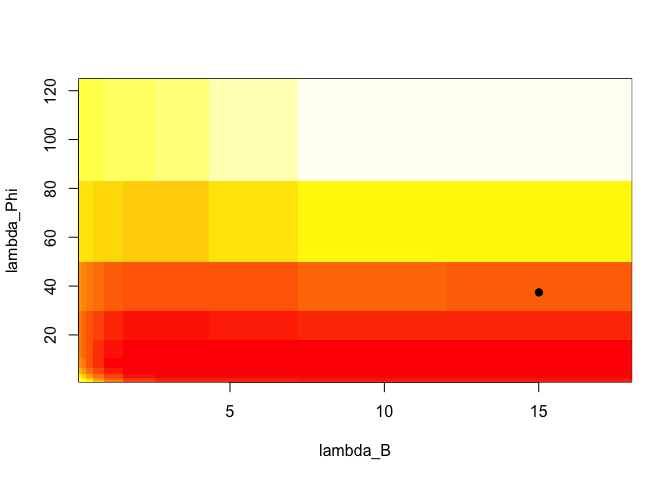
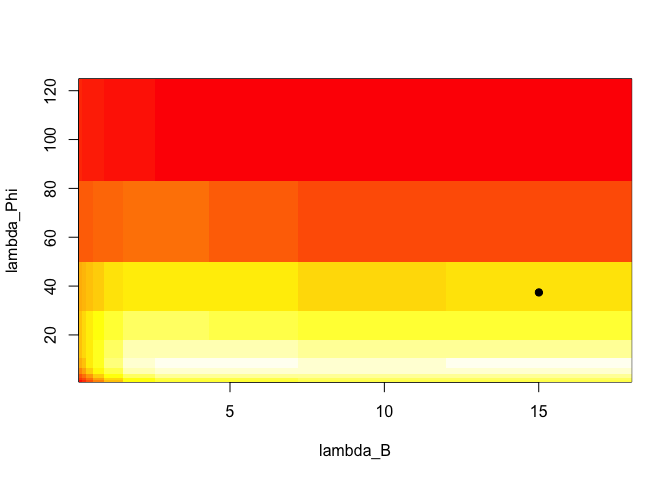
explaining image_cv colour in readme

diff --git a/README.md b/README.md
@@ -39,13 +39,6 @@ environment and then, using a little utility function, plotting it.
 ``` r
 library(bigtime)
 suppressMessages(library(tidyverse)) # Will be used for nicer visualisations
-#> Warning: package 'tidyverse' was built under R version 4.0.5
-#> Warning: package 'ggplot2' was built under R version 4.0.3
-#> Warning: package 'readr' was built under R version 4.0.4
-#> Warning: package 'purrr' was built under R version 4.0.3
-#> Warning: package 'dplyr' was built under R version 4.0.5
-#> Warning: package 'stringr' was built under R version 4.0.3
-#> Warning: package 'forcats' was built under R version 4.0.4
 data(varx.example) # loading the varx example data
 
 # data(example)
@@ -180,7 +173,7 @@ exist: (1) `zero_min` determines the minimum number of zero coefficients
 of each variable in each equation, (2) `zero_max` determines the maximum
 number of zero coefficients of each variable in each equation, and (3)
 `zeroes_in_self` is a boolean option that if TRUE, zero coefficients of
-the *i*th variable can exist in the *i*th equation.
+the \(i\)th variable can exist in the \(i\)th equation.
 
 ``` r
 periods <- 200
@@ -310,9 +303,9 @@ plot_cv(VAR.L1)
 
 Further investigation into the model can be done by using the function
 `lagmatrix`, which returns the lagmatrix of the estimated autoregressive
-coefficients. If entry (*i*, *j*) = *x*, this means that the sparse
-estimator indicates the effect of time series *j* on time series *i* to
-last for *x* periods. Setting the `returnplot` argument to `TRUE` will
+coefficients. If entry \((i,j)=x\), this means that the sparse estimator
+indicates the effect of time series \(j\) on time series \(i\) to last
+for \(x\) periods. Setting the `returnplot` argument to `TRUE` will
 return a heatmap for better visual inspection.
 
 ``` r
@@ -437,7 +430,9 @@ plot shows the mean MSFE for each combination of penalizations in a
 heatmap. The x-axis show the penalizations for the exogenous variables,
 and the y-axis shows the penalizations for the endogenous variables. The
 big black dot in the plot below indicates the one-SE optimal choice,
-while the contours indicate the mean MSFE in the CV procedure.
+while the contours indicate the mean MSFE in the CV procedure. The red
+colour indicates a high MSFE, and light-yellow to yellow regions
+indicate low MSFEs.
 
 ``` r
 plot_cv(VARXfit_cv)
@@ -555,13 +550,13 @@ plot(rec_fcst, series = "Y2", last_n = 50) # Plotting of a recursive forecast
 ## Univariate Models
 
 The functions `sparseVAR`, `sparseVARX`, `sparseVARMA` can also be used
-for the univariate setting where the response time series *Y* is
+for the univariate setting where the response time series \(Y\) is
 univariate. Below we illustrate the usefulness of the sparse estimation
 procedure as automatic lag selection procedures.
 
 ### AutoRegressive (AR) Models
 
-We start by generating a time series of length *n* = 50 from a
+We start by generating a time series of length \(n=50\) from a
 stationary AR model and by plotting it. The `sparseVAR` function can
 also be used in the univariate case as it allows the argument `Y` to be
 a vector.
@@ -617,7 +612,7 @@ cases also work for univariate cases; so do the forecasting functions*.
 
 ### AutoRegressive with Exogenous Variables (ARX) Models
 
-We start by generating a time series of length *n* = 50 from a
+We start by generating a time series of length \(n=50\) from a
 stationary ARX model and by plotting it. The `sparseVARX` function can
 also be used in the univariate case as it allows the arguments `Y` and
 `X` to be vectors. The `lagmatrix` function gives the selected
@@ -625,6 +620,7 @@ endogenous (under `LPhi`) and exogenous autoregressive (under `LB`)
 orders of the sparse ARX model. The true orders are one.
 
 ``` r
+
 periods <- 50
 k <- 1
 p <- 1
@@ -639,6 +635,7 @@ plot(Ysim)
 ![](man/figures/README-unnamed-chunk-19-1.png)<!-- -->
 
 ``` r
+
 x <- scale(Xsim$Y[-(1:(burnin+1))])
 y <- scale(Ysim$Y)
 
@@ -655,7 +652,7 @@ lagmatrix(fit=ARXfit)
 
 ### AutoRegressive Moving Average (ARMA) Models
 
-We start by generating a time series of length *n* = 50 from a
+We start by generating a time series of length \(n=50\) from a
 stationary ARMA model and by plotting it. The `sparseVARMA` function can
 also be used in the univariate case as it allows the argument `Y` to be
 a vector. The `lagmatrix` function gives the selected autoregressive
@@ -663,6 +660,7 @@ a vector. The `lagmatrix` function gives the selected autoregressive
 ARMA model. The true orders are one.
 
 ``` r
+
 periods <- 50
 k <- 1
 p.u <- 1
@@ -704,6 +702,7 @@ summary(Ysim)
 ![](man/figures/README-unnamed-chunk-20-1.png)<!-- -->
 
 ``` r
+
 ARMAfit <- sparseVARMA(Y=y, VARMAselection = "cv")
 lagmatrix(fit=ARMAfit)
 #> $LPhi
@@ -727,17 +726,17 @@ Please be patient or try another time.*
 
 ## References:
 
--   Nicholson William B., Wilms Ines, Bien Jacob and Matteson David S.
+  - Nicholson William B., Wilms Ines, Bien Jacob and Matteson David S.
     (2020), “High-dimensional forecasting via interpretable vector
     autoregression”, Journal of Machine Learning Research, 21(166),
     1-52.
 
--   Wilms Ines, Basu Sumanta, Bien Jacob and Matteson David S. (2021),
+  - Wilms Ines, Basu Sumanta, Bien Jacob and Matteson David S. (2021),
     “Sparse Identification and Estimation of Large-Scale Vector
     AutoRegressive Moving Averages”, Journal of the American Statistical
     Association, doi: 10.1080/01621459.2021.1942013.
 
--   Wilms Ines, Basu Sumanta, Bien Jacob and Matteson David S. (2017),
+  - Wilms Ines, Basu Sumanta, Bien Jacob and Matteson David S. (2017),
     “Interpretable Vector AutoRegressions with Exogenous Time Series”,
     NIPS 2017 Symposium on Interpretable Machine Learning,
     arXiv:1711.03623
